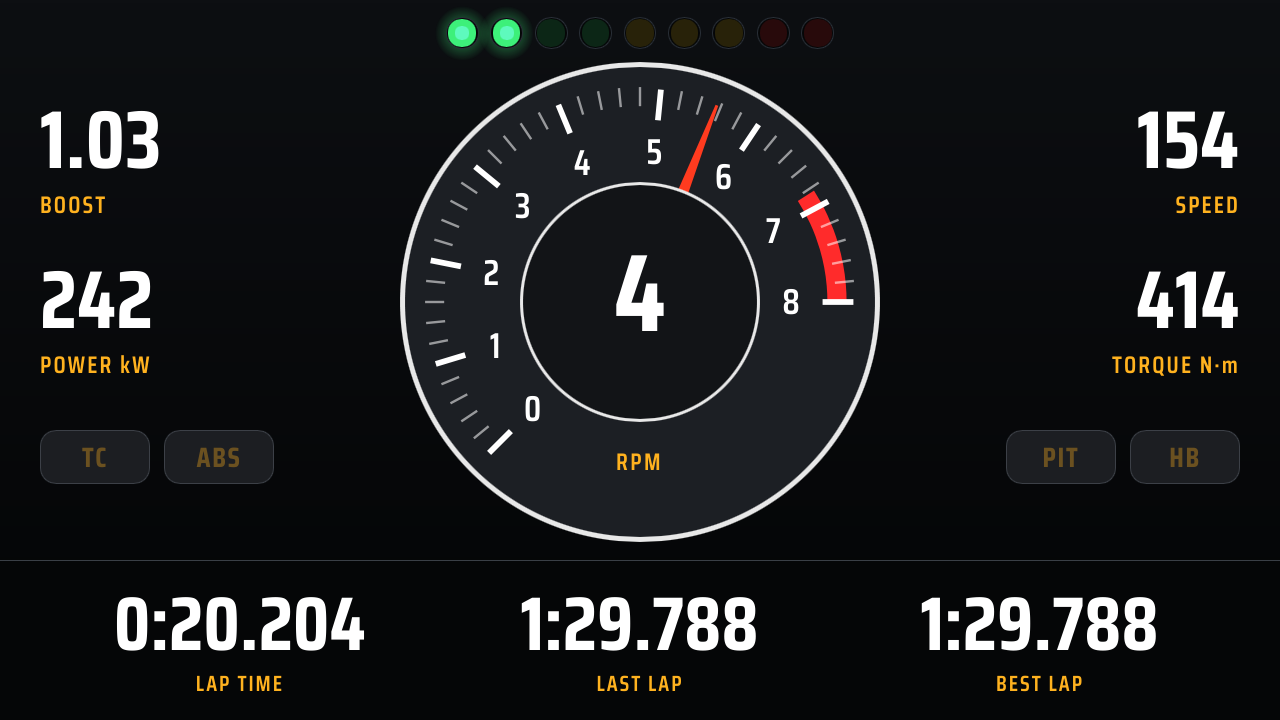
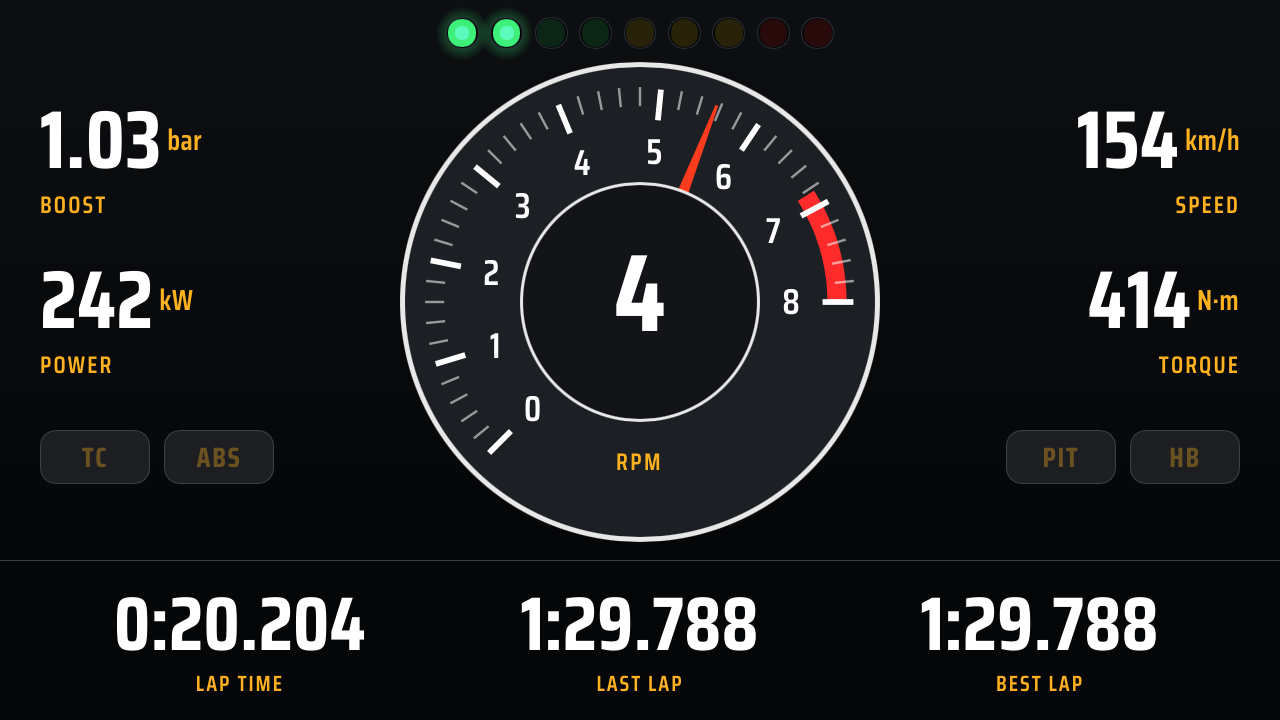
fix: keep dashboard elements apart and readable at extreme values
- Move the RPM readouts out of the dial boxes on Race and Apex, give Sprint's
  readouts their own rows under the RPM graph, and space out Rally's boost
  dial and Endurance's gear and speed captions.
- Show speed, power, torque and boost units inline so labels match imperial
  units instead of hard-coding km/h, kW and N·m.
- Keep the g-meter dot inside its dial at combined loads, shrink long values
  to fit readouts, labels and dial centers, and put bar labels and values on
  dark chips so they stay readable over the fill.
- Test that built-in widgets never overlap and sit fully on their panels.
- Add `snapshot --set SIGNAL=VALUE` for checking layouts with extreme values.

diff --git a/apps/cluster-desktop/src/main.rs b/apps/cluster-desktop/src/main.rs
@@ -121,6 +121,10 @@ enum Command {
         /// Also show the status bar, settings, guide or QR code (status, settings, guide or qr).
         #[arg(long)]
         overlay: Option<String>,
+        /// Override a signal after the simulation, in source units (repeatable), e.g.
+        /// `--set rpm=9800 --set gear=-1`, to check a layout with extreme values.
+        #[arg(long = "set", value_name = "SIGNAL=VALUE", value_parser = parse_signal_value)]
+        set: Vec<(SignalId, f32)>,
     },
 }
 
@@ -208,6 +212,13 @@ fn library(cli: &Cli, saved_extra: &[PathBuf]) -> anyhow::Result<Library> {
     Ok(lib)
 }
 
+fn parse_signal_value(s: &str) -> Result<(SignalId, f32), String> {
+    let (name, value) = s.split_once('=').ok_or("expected SIGNAL=VALUE")?;
+    let id = SignalId::from_name(name.trim()).ok_or_else(|| format!("unknown signal {name:?}"))?;
+    let value = value.trim().parse::<f32>().map_err(|e| format!("{value:?}: {e}"))?;
+    Ok((id, value))
+}
+
 #[allow(clippy::too_many_arguments)] // mirrors the CLI subcommand's flags
 fn snapshot(
     cli: &Cli,
@@ -218,6 +229,7 @@ fn snapshot(
     edit: Option<&str>,
     height: Option<u32>,
     overlay: Option<&str>,
+    overrides: &[(SignalId, f32)],
 ) -> anyhow::Result<()> {
     let lib = library(cli, &[])?;
     let (compiled, base) = lib.current().load()?;
@@ -245,6 +257,19 @@ fn snapshot(
             view.update(&car.snapshot(), dt);
         }
         (car.snapshot(), "Demo car".to_owned())
+    };
+    let snap = if overrides.is_empty() {
+        snap
+    } else {
+        let mut snap = snap;
+        for &(id, value) in overrides {
+            snap.set(id, value);
+        }
+        // Let smoothed needles settle on the new values.
+        for _ in 0..120 {
+            view.update(&snap, dt);
+        }
+        snap
     };
     view.refresh_statics(&snap, false);
     bind_view(&ui, &mut view);
@@ -565,8 +590,8 @@ fn main() -> anyhow::Result<()> {
     env_logger::Builder::from_env(env_logger::Env::default().default_filter_or("info")).init();
     let cli = Cli::parse();
     match &cli.command {
-        Some(Command::Snapshot { out, seconds, width, live, edit, height, overlay }) => {
-            snapshot(&cli, out, *seconds, *width, *live, edit.as_deref(), *height, overlay.as_deref())
+        Some(Command::Snapshot { out, seconds, width, live, edit, height, overlay, set }) => {
+            snapshot(&cli, out, *seconds, *width, *live, edit.as_deref(), *height, overlay.as_deref(), set)
         }
         None => run(&cli).inspect_err(|e| {
             // Started from Finder/Explorer there is no terminal to show the error in.

diff --git a/crates/cluster-layout/src/lib.rs b/crates/cluster-layout/src/lib.rs
@@ -46,6 +46,34 @@ mod tests {
         }
     }
 
+    /// Instruments must not cover each other, and anything drawn on a panel must sit fully on it.
+    #[test]
+    fn builtin_widgets_do_not_overlap() {
+        use crate::model::{Widget, WidgetKind};
+        let overlap = |a: &Widget, b: &Widget| {
+            (a.x + a.w).min(b.x + b.w) > a.x.max(b.x) && (a.y + a.h).min(b.y + b.h) > a.y.max(b.y)
+        };
+        let inside =
+            |w: &Widget, p: &Widget| w.x >= p.x && w.y >= p.y && w.x + w.w <= p.x + p.w && w.y + w.h <= p.y + p.h;
+        for (name, src) in BUILTIN {
+            let layout = Compiled::from_json5(src).unwrap().layout;
+            let is_panel = |w: &Widget| matches!(w.kind, WidgetKind::Panel(_));
+            for (i, a) in layout.widgets.iter().enumerate() {
+                for b in &layout.widgets[i + 1..] {
+                    if !overlap(a, b) {
+                        continue;
+                    }
+                    match (is_panel(a), is_panel(b)) {
+                        (false, false) => panic!("{name}: {} overlaps {}", a.id, b.id),
+                        (true, false) => assert!(inside(b, a), "{name}: {} sticks out of panel {}", b.id, a.id),
+                        (false, true) => assert!(inside(a, b), "{name}: {} sticks out of panel {}", a.id, b.id),
+                        (true, true) => {}
+                    }
+                }
+            }
+        }
+    }
+
     #[test]
     fn reports_helpful_errors() {
         let src = r##"{ name: "bad", canvas: { width: 100, height: 100 }, widgets: [

diff --git a/docs/dashboard-format.md b/docs/dashboard-format.md
@@ -87,3 +87,17 @@ cylinders, pos_x, pos_y, pos_z.
 
 Forza provides most of these; it doesn't send coolant/oil temperature, ABS/TC, lights
 or indicators, so widgets bound to those show "no data" (dimmed) with Forza.
+
+## Checking a layout
+
+Render a dashboard to a PNG with extreme values to make sure nothing overflows or overlaps.
+`--set` takes source units (m/s, rpm, kPa, W, N·m, °C, m/s², seconds; 0–1 for pedals and fuel):
+
+```sh
+dashcluster --dashboards my.json5 -d my.json5 --units imperial snapshot --out check.png \
+  --set speed=100 --set rpm=9850 --set rpm_max=10000 --set gear=-1 --set lap_time=599.999
+```
+
+Values shrink to fit their widget, but a readout that is too narrow for its longest value still gets small.
+The built-in dashboards are tested to keep every instrument inside the canvas, off each other, and fully
+on top of any panel it sits on.
